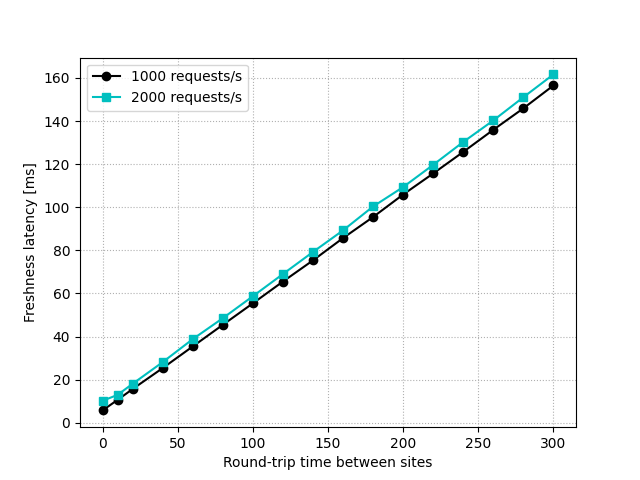
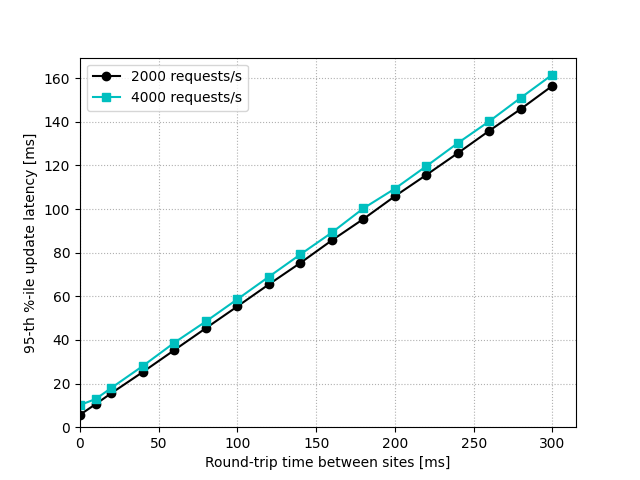
evaluation plots (2/N)

diff --git a/lobsters/plots/responseTime.py b/lobsters/plots/responseTime.py
@@ -6,8 +6,8 @@ respTime_lobsters = [81.70224,    81.70687,   82.69064,   82.79342,  85.07017,  
 throughput_proteus_datastore = [499.975,1000.00001,2000.00002,2995.85149,4000.10194,4100.15211,4200.55202,4302.75206]
 respTime_lobsters_datastore = [83.25554,83.26093,83.89383,87.98632,93.68136,94.86974,97.29494,431.88952]
 
-throughput_proteus_client = [ 499.9753, 1000.05055, 2000.00135, 3000.30403, 3998.75225, 5000.05366, 6000.9,   6501.32089, 7057.67988, 7275.02368, 7553.42848, 7698.7791,7831.91119,7865.65948]
-respTime_lobsters_client = [  2.63942,  3.01543,    4.65687,    8.30447,    18.94158,   29.33482,   23.48175, 26.08507,   30.04863,   32.24758,   50.65336,   81.07866,114.75306,138.39679]
+throughput_proteus_client = [ 499.9753, 1000.05055, 2000.00135, 3000.52664, 3999.9786, 4999.75245, 6023.85455,   6501.32089, 7057.67988, 7275.02368, 7553.42848, 7698.7791,7831.91119,7865.65948]
+respTime_lobsters_client = [  2.63942,  3.01543,    4.65687,    7.18948,    8.82407,   11.91162,   14.59682, 26.08507,   30.04863,   32.24758,   50.65336,   81.07866,114.75306,138.39679]
 
 throughput_baseline_db = [500.00031,1000.00048,2000.00115,3000.05154,4000.00245,5000.0314,6000.05545,6999.97927,8000.08028,9000.00585,9099.97976,9200.08138,9500.08027,9600.38121,9706.37996,9701.25524,9750.72258,9681.43122,9691.05535,9630.00852,9486.73123,9318.25745]
 respTime_baseline_db = [0.81552,0.81348,0.83594,0.90492,1.08862,1.2107,1.39493,1.56269,1.76105,2.01445,2.12129,1.84018,1.99626,2.135,5.60897,23.11631,28.14762,34.20481,39.76049,45.36878,52.10973,58.73519]
@@ -17,17 +17,18 @@ f, ax = plt.subplots()
 ax.plot(throughput_lobsters, respTime_lobsters, color='k', marker='o', label='MySQL')
 ax.plot(throughput_proteus_datastore, respTime_lobsters_datastore, color='b', marker='x', label='Proteus-application')
 ax.plot(throughput_proteus_client, respTime_lobsters_client, color='g', marker='+', label='Proteus-client')
-ax.plot(throughput_baseline_db, respTime_baseline_db, linestyle='dashdot', color='c', marker='s', label='MySQL-baseline')
+ax.plot(throughput_baseline_db, respTime_baseline_db, linestyle='dashdot', color='c', marker='s', label='Materialized view internal')
 
-ax.set(xlabel='Throughput [requests/s]', ylabel='Query response time [ms]')
+ax.set(xlabel='Throughput [requests/s]', ylabel='95-th %-ile query response time [ms]')
 
 ax.grid(linestyle='dotted')
 
 handles, labels = ax.get_legend_handles_labels()
-ax.legend(handles,labels=labels, loc='upper left')
+ax.legend(handles,labels=labels, bbox_to_anchor=(0, 0.5), loc='upper left')
+
 
 plt.ylim([0.0, 135.0])
 
-# plt.tight_layout(rect=[0,0.05,1,1])
+# plt.tight_layout(rect=[0,0.05,1.,1])
 plt.savefig('responseTime.png')
 plt.close()

diff --git a/lobsters/plots/freshReadsThroughput.py b/lobsters/plots/freshReadsThroughput.py
@@ -1,21 +1,27 @@
 import matplotlib.pyplot as plt
 
-throughput_client =[500.07527,1000.00041,2000.12605,2500.32767,2999.35171,3500.61361,3961.22224,4501.44157]
+throughput_client =[500.07527,1000.00041,2000.12605,2500.32767,2999.35171,3500.61361,3956.37687,4250.66576]
 throughput_ratastore = [500.00034,1000.00037,2000.02611,2499.95105,3000.05147,3501.33461,4026.1502,4251.92629]
 freshR_datastore = [99.826,99.567,99.071,98.734,98.327,97.732,95.813,95.453]
-freshR_client = [97.346,94.781,89.922,87.708,85.294,83.081,71.387,68.207]
+freshR_client = [97.346,94.781,89.922,87.708,85.294,83.081,81.651,80.078]
+freshR_datastore1 = [100,100,99.996,99.99,99.982,99.961,99.854,99.842]
+freshR_client1 = [99.966,99.865,99.457,99.193,98.807,98.42,98.333,97.761]
 
 f, ax = plt.subplots()
 
-ax.plot(throughput_ratastore, freshR_datastore, color='b', marker='x', label='Proteus-application')
-ax.plot(throughput_client, freshR_client, color='g', marker='+', label='Proteus-client')
+ax.plot(throughput_ratastore, freshR_datastore, color='b', marker='x', label='Proteus-application [fresh read: k=1]')
+ax.plot(throughput_ratastore, freshR_datastore1, color='b', linestyle='dashed', marker='x', label='Proteus-application [fresh read: k<=2]')
+ax.plot(throughput_client, freshR_client, color='g', marker='+', label='Proteus-client [fresh read: k=1]')
+ax.plot(throughput_client, freshR_client1, color='g', linestyle='dashed', marker='+', label='Proteus-client [fresh read: k<=2]')
 
-ax.set(xlabel='Throughput [requests/s]', ylabel='Fresh reads [%]')
+ax.set(xlabel='Throughput [requests/s]', ylabel='Fresh query results [%]')
+
+ax.set_ylim(bottom=0)
 
 ax.grid(linestyle='dotted')
 
 handles, labels = ax.get_legend_handles_labels()
-ax.legend(handles,labels=labels, loc='upper left')
+ax.legend(handles,labels=labels, loc='lower left')
 
 plt.savefig('fresh_reads_throughput.png')
 plt.close()

diff --git a/lobsters/plots/breakdown.py b/lobsters/plots/breakdown.py
@@ -1,0 +1,38 @@
+import matplotlib.pyplot as plt
+import numpy as np
+
+# r = [500.07527, 1000.00041,2000.12605,2500.32767,2999.35171,3500.61361,3956.37687,4250.66576,4501.44157,5123.96493,5517.40271,6164.26833,6668.97663,6841.86631]
+# q0 = [1.33996,1.41188,1.55848,1.57982,1.65732,1.73805,1.95672,2.02859,2.31715,3.54958,5.31499,6.70572,7.80892,8.32559]
+# q1 = [0.539,0.54511,0.63229,0.63272,0.68807,0.77033,0.81648,0.83516,0.92187,0.8869,0.70989,0.7172,0.74336,0.64069]
+# q2 = [0.49788,0.5539,0.59829,0.74025,1.08043,1.51594,1.49176,1.88023,2.60421,3.08691,2.49921,2.36018,2.76065,3.34478]
+# # q3 [ (40,40,40,40,40,40,40,40,40,40,40,40,40,40]
+# q4 = [2.44131,2.35315,2.80036,3.52845,4.52223,5.22262,4.28149,4.53687,5.42349,5.25071,4.87007,4.46105,4.33556,4.54324]
+
+
+f, ax = plt.subplots()
+
+A = [1.33996,1.41188,1.55848,1.57982,1.65732,1.73805,1.95672,2.02859]
+B = [0.539,0.54511,0.63229,0.63272,0.68807,0.77033,0.81648,0.83516]
+C = [0.49788,0.5539,0.59829,0.74025,1.08043,1.51594,1.49176,1.88023]
+D = [40,40,40,40,40,40,40,40]
+E = [2.44131,2.35315,2.80036,3.52845,4.52223,5.22262,4.28149,4.53687]
+AB = np.add(A, B).tolist()
+ABC = np.add(AB, C).tolist()
+ABCD = np.add(ABC, D).tolist()
+
+X = range(8)
+names = ['500', '1000', '2000', '2500', '3000', '3500', '4000', '4250']
+
+ax.bar(X, A, color = 'b', label='notification server')
+ax.bar(X, B, color = 'k', bottom = A, label='corpus driver')
+ax.bar(X, C, color = 'm', bottom = AB, label='sum')
+ax.bar(X, D, color = 'c', bottom = ABC, label='cross-site communication')
+ax.bar(X, E, color = 'g', bottom = ABCD, label='join-MV')
+
+handles, labels = ax.get_legend_handles_labels()
+ax.legend(handles,labels=labels, loc='center left')
+plt.xticks(X, names)
+ax.set(xlabel='Throughput [requests/s]', ylabel='95-th %-ile update latency [ms]')
+
+plt.savefig('fr_latency_throughput_breakdown.png')
+plt.close()

diff --git a/lobsters/plots/readVNetLatency400.py b/lobsters/plots/readVNetLatency400.py
@@ -2,12 +2,12 @@ import numpy as np
 from matplotlib import pyplot as plt
 import seaborn as sns
 
-x = [0, 5, 10, 20, 30, 40, 50, 60, 70, 80, 90, 100, 110, 120, 130, 140, 150]
+x = [0, 10, 20, 40, 60, 80, 100, 120, 140, 160, 180, 200, 220, 240, 260, 280, 300]
 readV = {
-    '1': [0.97688,0.95267,0.93228,0.88961,0.84557,0.81864,0.7742,0.73992,0.70562,0.67594,0.65111,0.6095,0.57583,0.55423,0.52503,0.49801,0.4723],
-    '2': [0.02282,0.04617,0.06492,0.1034,0.14181,0.16386,0.19875,0.22373,0.24351,0.26583,0.27911,0.30151,0.31955,0.32377,0.34046,0.34903,0.35588],
-    '3-4': [0.0003,0.00115,0.0028,0.00698,0.01257,0.01747,0.02691,0.03615,0.05058,0.05772,0.06874,0.0874,0.10187,0.11916,0.12977,0.14777,0.16356],
-    '>4': [0,0,0,0.00001,0.00005,0.00003,0.00014,0.0002,0.00029,0.00052,0.00104,0.00159,0.00274,0.00284,0.00473,0.00519,0.00826],
+    '1': [97.688,95.267,93.228,88.961,84.557,81.864,77.42,73.992,70.562,67.594,65.111,60.95,57.583,55.423,52.503,49.801,47.23],
+    '2': [2.282,4.617,6.492,10.34,14.181,16.386,19.875,22.373,24.351,26.583,27.911,30.151,31.955,32.377,34.046,34.903,35.588],
+    '3-4': [0.03,0.115,0.28,0.698,1.257,1.747,2.691,3.615,5.058,5.772,6.874,8.74,10.187,11.916,12.977,14.777,16.356],
+    '>4': [0,0,0,0.001,0.005,0.003,0.014,0.02,0.029,0.052,0.104,0.159,0.274,0.284,0.473,0.519,0.826],
 }
 
 f, ax = plt.subplots()
@@ -17,8 +17,8 @@ print(pal)
 ax.stackplot(x, readV.values(),labels=readV.keys(), colors=[pal[2], pal[1], pal[4], pal[3]])
 
 ax.legend(loc='lower left')
-ax.set_xlabel('Round-trip time between sites')
-ax.set_ylabel('Reads that returned version k [%] (0 = latest)')
+ax.set_xlabel('Round-trip time between sites [ms]')
+ax.set_ylabel('Reads that returned version k [%] (1 = latest)')
 
 plt.savefig('readV_freshness_netLatency_400.png')
 plt.close()

diff --git a/lobsters/plots/readVNetLatency200.py b/lobsters/plots/readVNetLatency200.py
@@ -2,12 +2,12 @@ import numpy as np
 from matplotlib import pyplot as plt
 import seaborn as sns
 
-x = [0, 5, 10, 20, 30, 40, 50, 60, 70, 80, 90, 100, 110, 120, 130, 140, 150]
+x = [0, 10, 20, 40, 60, 80, 100, 120, 140, 160, 180, 200, 220, 240, 260, 280, 300]
 readV = {
-    '1': [0.98507,0.9653,0.94612,0.91008,0.87441,0.84115,0.80661,0.7711,0.74084,0.71413,0.68615,0.65515,0.63915,0.60851,0.59017,0.7013,0.69009],
-    '2': [0.01482,0.03425,0.0525,0.08566,0.11747,0.14684,0.17383,0.20101,0.22362,0.2407,0.25799,0.27762,0.28496,0.3045,0.30802,0.2485,0.25512],
-    '3-4': [0.00011,0.00046,0.00138,0.00426,0.00812,0.01199,0.01952,0.02774,0.03532,0.04488,0.05514,0.06641,0.0749,0.08529,0.09913,0.04973,0.0542],
-    '>4': [0,0,0,0,0.00001,0.00002,0.00004,0.00014,0.00022,0.00029,0.00072,0.00082,0.00099,0.00169,0.00268,0.00047,0.00059],
+    '1': [98.507,96.53,96.744,94.546,92.171,89.858,87.835,85.692,84.036,81.827,79.957,77.986,76.042,73.739,72.349,70.709,69.034],
+    '2': [1.482,3.425,3.199,5.313,7.518,9.621,11.465,13.215,14.568,16.459,17.895,19.405,20.836,22.611,23.285,24.763,25.532],
+    '3-4': [0.011,0.046,0.057,0.141,0.31,0.52,0.7,1.092,1.394,1.709,2.145,2.589,3.115,3.631,4.33,4.466,5.372],
+    '>4': [0,0,0,0,0,0.002,0,0.001,0.003,0.005,0.003,0.021,0.006,0.019,0.035,0.062,0.062],
 }
 
 f, ax = plt.subplots()
@@ -17,8 +17,8 @@ print(pal)
 ax.stackplot(x, readV.values(),labels=readV.keys(), colors=[pal[2], pal[1], pal[4], pal[3]])
 
 ax.legend(loc='lower left')
-ax.set_xlabel('Round-trip time between sites')
-ax.set_ylabel('Queries that returned version k [%] (0 = latest)')
+ax.set_xlabel('Round-trip time between sites [ms]')
+ax.set_ylabel('Queries that returned version k [%] (1 = latest)')
 
 plt.savefig('readV_freshness_netLatency_200.png')
 plt.close()

diff --git a/lobsters/plots/breakdown copy.py b/lobsters/plots/breakdown copy.py
@@ -1,0 +1,29 @@
+import matplotlib.pyplot as plt
+import numpy as np
+
+# r = [500.07527, 1000.00041,2000.12605,2500.32767,2999.35171,3500.61361,3956.37687,4250.66576,4501.44157,5123.96493,5517.40271,6164.26833,6668.97663,6841.86631]
+# q0 = [1.33996,1.41188,1.55848,1.57982,1.65732,1.73805,1.95672,2.02859,2.31715,3.54958,5.31499,6.70572,7.80892,8.32559]
+# q1 = [0.539,0.54511,0.63229,0.63272,0.68807,0.77033,0.81648,0.83516,0.92187,0.8869,0.70989,0.7172,0.74336,0.64069]
+# q2 = [0.49788,0.5539,0.59829,0.74025,1.08043,1.51594,1.49176,1.88023,2.60421,3.08691,2.49921,2.36018,2.76065,3.34478]
+# # q3 [ (40,40,40,40,40,40,40,40,40,40,40,40,40,40]
+# q4 = [2.44131,2.35315,2.80036,3.52845,4.52223,5.22262,4.28149,4.53687,5.42349,5.25071,4.87007,4.46105,4.33556,4.54324]
+
+
+f, ax = plt.subplots()
+
+
+A = [41.14145141,40.32718327,11.31857319,4.199261993,1.672816728,0.6912669127,0.3148831488,0.147601476,0.08610086101,0.0393603936,0.009840098401,0.009840098401,0.024600246,0.0024600246,0.0049200492,0.0024600246,0.0024600246,0.0024600246,0.0024600246]
+
+
+X = range(10)
+names = ['1', '1','1','1','1','1','1','1','1','1','1','1','1','1','1','1','1','1','1',]
+
+# ax.bar(X, A, color = 'c')
+
+handles, labels = ax.get_legend_handles_labels()
+plt.hist(A, density=True, bins=30)
+ax.set(xlabel='Throughput [requests/s]', ylabel='95-th %-ile update latency [ms]')
+
+# plt.savefig('b.png')
+# plt.close()
+plt.show()

diff --git a/lobsters/plots/frLatencyThroughput.py b/lobsters/plots/frLatencyThroughput.py
@@ -1,7 +1,7 @@
 import matplotlib.pyplot as plt
 
-write_throughput_client = [500.07527,1000.00041,2000.12605,2500.32767,2999.35171,3500.61361,3961.22224,4501.44157]
-fr_latency_client = [44.81815,44.86404,45.58942,46.48124,47.94805,49.24694,49.38624,51.26672]
+write_throughput_client = [500.07527,1000.00041,2000.12605,2500.32767,2999.35171,3500.61361,3961.22224,4250.66576]
+fr_latency_client = [44.81815,44.86404,45.58942,46.48124,47.94805,49.24694,49.38624,49.28085]
 
 write_throughput_datastore = [500.00034,1000.00037,2000.02611,2499.95105,3000.05147,3501.33461,4026.1502,4251.92629]
 fr_latency_datastore = [4.62999,4.77834,6.01891,7.67693,9.82936,13.00829,15.16461,18.518]
@@ -11,12 +11,12 @@ f, ax = plt.subplots()
 ax.plot(write_throughput_datastore, fr_latency_datastore, color='b', marker='x', label='Proteus-application')
 ax.plot(write_throughput_client, fr_latency_client, color='g', marker='+', label='Proteus-client')
 
-ax.set(xlabel='Throughput (requests/s)', ylabel='Freshness latency [ms]')
+ax.set(xlabel='Throughput [requests/s]', ylabel='95-th %-ile update latency [ms]')
 
 ax.grid(linestyle='dotted')
 
 handles, labels = ax.get_legend_handles_labels()
-ax.legend(handles,labels=labels, loc='upper left')
+ax.legend(handles,labels=labels, loc='center left')
 
 plt.tight_layout(rect=[0,0.05,1,1])
 plt.savefig('fr_latency_throughput.png')

diff --git a/lobsters/plots/frLatencyNetlatency.py b/lobsters/plots/frLatencyNetlatency.py
@@ -6,16 +6,18 @@ fr_latency_400 = [10.17958,12.92751,18.06492,28.11171,38.7885,48.50991,58.69654,
 
 f, ax = plt.subplots()
 
-ax.plot(netLatency, fr_latency_200, color='k', marker='o', label='1000 requests/s')
-ax.plot(netLatency, fr_latency_400, color='c', marker='s', label='2000 requests/s')
+ax.plot(netLatency, fr_latency_200, color='k', marker='o', label='2000 requests/s')
+ax.plot(netLatency, fr_latency_400, color='c', marker='s', label='4000 requests/s')
 
-ax.set(xlabel='Round-trip time between sites', ylabel='Freshness latency [ms]')
+ax.set_ylim(bottom=0)
+ax.set_xlim(left=0)
+
+ax.set(xlabel='Round-trip time between sites [ms]', ylabel='95-th %-ile update latency [ms]')
 
 ax.grid(linestyle='dotted')
 
 handles, labels = ax.get_legend_handles_labels()
 ax.legend(handles,labels=labels, loc='upper left')
 
-# plt.tight_layout(rect=[0,0.05,1,1])
 plt.savefig('fr_latency_net_latency.png')
 plt.close()

diff --git a/lobsters/plots/frLatencyNetlatency_99.py b/lobsters/plots/frLatencyNetlatency_99.py
@@ -1,0 +1,22 @@
+import matplotlib.pyplot as plt
+
+netLatency = [0, 10, 20, 40, 60, 80, 100, 120, 140, 160, 180, 200, 220, 240, 260, 280, 300]
+fr_latency = [10.2157,10.24781,10.37871,9.18627,8.75541,10.48504,10.2082,12.85111,9.89153,11.09457,10.73589,22.00419,15.0772,14.29934,16.05631,30.69353,54.17463]
+
+
+f, ax = plt.subplots()
+
+ax.plot(netLatency, fr_latency, color='k', marker='o')
+
+ax.set_ylim(bottom=0)
+ax.set_xlim(left=0)
+
+ax.set(xlabel='Round-trip time between sites [ms]', ylabel='99-th %-ile update latency (normalized) [ms]')
+
+ax.grid(linestyle='dotted')
+
+handles, labels = ax.get_legend_handles_labels()
+ax.legend(handles,labels=labels, loc='upper left')
+
+plt.savefig('fr_latency_net_latency_99_norm.png')
+plt.close()

diff --git a/lobsters/plots/readVCDF.py b/lobsters/plots/readVCDF.py
@@ -2,12 +2,12 @@ import numpy as np
 from matplotlib import pyplot as plt
 
 x = [0, 1, 2, 3, 5]
-p0 = [0, 60.789, 90.144, 99.706, 100]
+p0 = [0, 80.078, 97.761, 99.991, 100]
 p1 = [0, 95.453, 99.842, 100, 100]
 f, ax = plt.subplots()
 
-ax.plot(x, p0, color='b', marker='x', label='Proteus-application')
-ax.plot(x, p1, color='g', marker='+', label='Proteus-client')
+ax.plot(x, p1, color='b', marker='x', label='Proteus-application')
+ax.plot(x, p0, color='g', marker='+', label='Proteus-client')
 
 ax.set(xlabel='# Returned version (1 = latest)', ylabel='CDF [%]')
 
